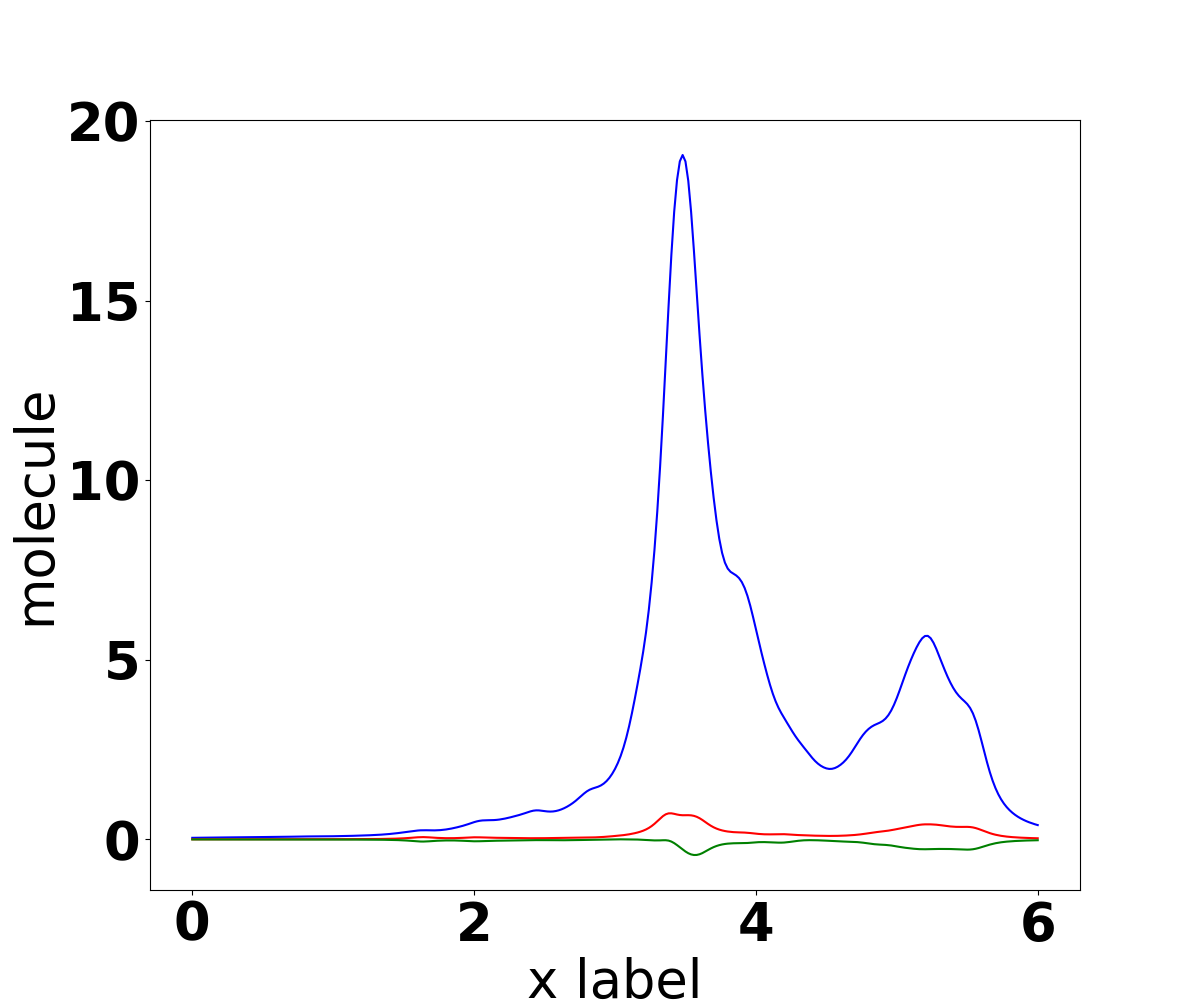
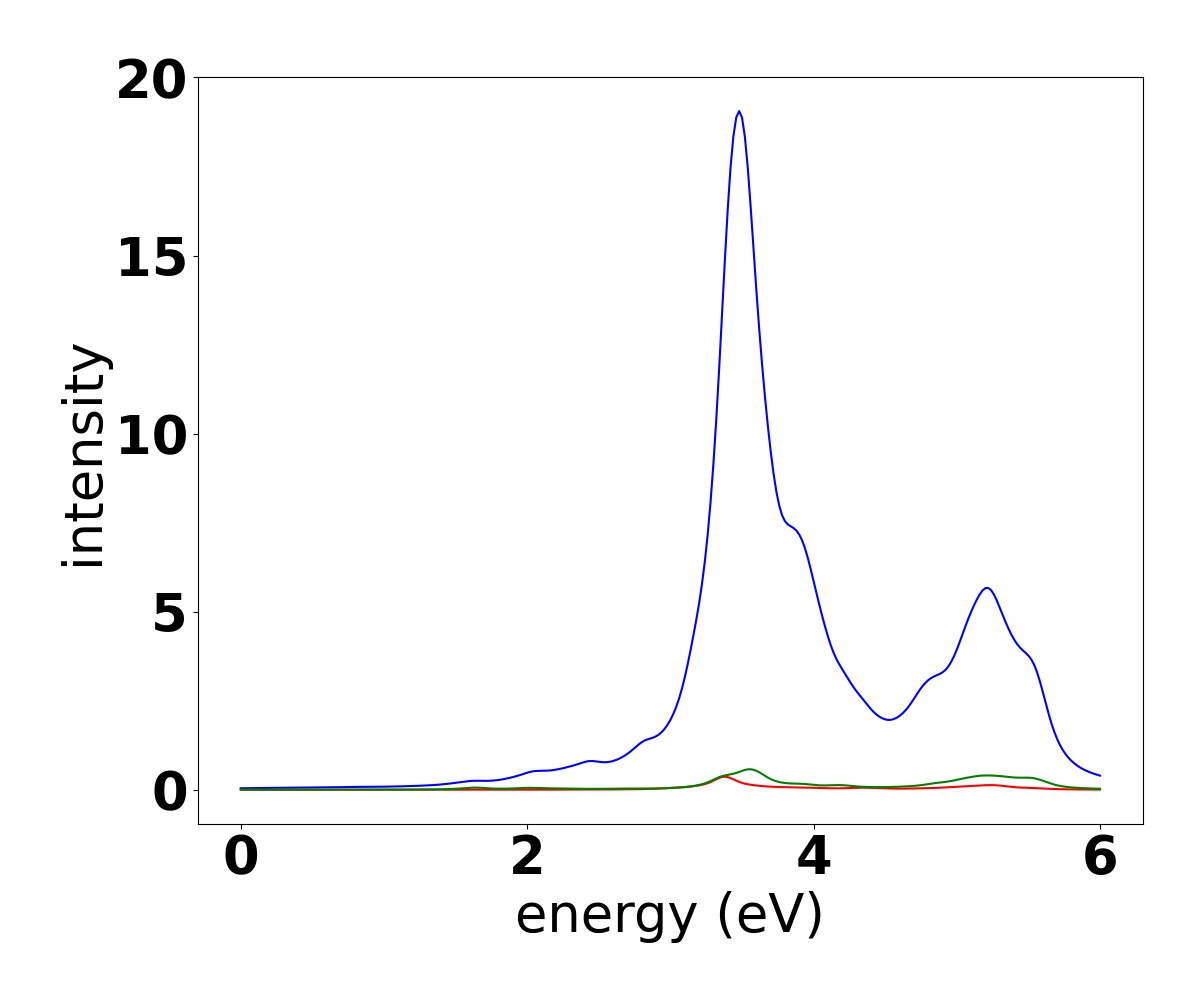
separated charge transfer contributions from metal cluster and molecule by classifying each transition

diff --git a/test.tex b/test.tex
@@ -27,19 +27,10 @@
    \hline
    \endfoot
    \endlastfoot 
-40 &	 1.64 &	 0.02 &	 0.95 \\ 
-  	& 841a(1.00)$\rightarrow$851a(0.00) &	 0.8028 &	 0.79, 0.21, 0.00 $\rightarrow$ 0.00, 1.00, 0.00 \\ 
- 	& 842a(1.00)$\rightarrow$851a(0.00) &	 0.1250 &	 0.76, 0.24, 0.00 $\rightarrow$ 0.00, 1.00, 0.00 \\ 
- 	& 840a(1.00)$\rightarrow$850a(1.00) &	 0.0287 &	 0.92, 0.08, 0.00 $\rightarrow$ 0.47, 0.53, 0.00 \\ 
- 	& 843a(1.00)$\rightarrow$851a(0.00) &	 0.0222 &	 0.80, 0.20, 0.00 $\rightarrow$ 0.00, 1.00, 0.00 \\ 
- \hline180 &	 3.35 &	 0.07 &	 0.75 \\ 
-  	& 836a(0.93)$\rightarrow$851a(0.00) &	 0.8060 &	 0.66, 0.31, 0.02 $\rightarrow$ 0.00, 1.00, 0.00 \\ 
- 	& 827a(1.00)$\rightarrow$844a(1.00) &	 0.0833 &	 0.00, 0.00, 1.00 $\rightarrow$ 0.70, 0.30, 0.00 \\ 
- 	& 828a(1.00)$\rightarrow$845a(1.00) &	 0.0411 &	 0.00, 0.00, 1.00 $\rightarrow$ 0.69, 0.31, 0.00 \\ 
- \hline181 &	 3.36 &	 0.01 &	 -0.89 \\ 
+181 &	 3.36 &	 0.01 &	 0.90 \\ 
   	& 829a(0.00)$\rightarrow$846a(0.98) &	 0.8632 &	 0.00, 1.00, 0.00 $\rightarrow$ 0.63, 0.37, 0.00 \\ 
  	& 830a(0.52)$\rightarrow$846a(0.98) &	 0.1139 &	 0.09, 0.45, 0.46 $\rightarrow$ 0.63, 0.37, 0.00 \\ 
- \hline186 &	 3.38 &	 0.38 &	 -0.24 \\ 
+ \hline186 &	 3.38 &	 0.38 &	 0.25 \\ 
   	& 830a(0.52)$\rightarrow$846a(0.98) &	 0.4082 &	 0.09, 0.45, 0.46 $\rightarrow$ 0.63, 0.37, 0.00 \\ 
  	& 826a(1.00)$\rightarrow$844a(1.00) &	 0.1201 &	 0.00, 0.00, 1.00 $\rightarrow$ 0.70, 0.30, 0.00 \\ 
  	& 825a(1.00)$\rightarrow$844a(1.00) &	 0.0744 &	 0.00, 0.00, 1.00 $\rightarrow$ 0.70, 0.30, 0.00 \\ 
@@ -49,92 +40,6 @@
  	& 835a(1.00)$\rightarrow$848a(0.96) &	 0.0299 &	 0.80, 0.18, 0.02 $\rightarrow$ 0.40, 0.60, 0.00 \\ 
  	& 836a(0.93)$\rightarrow$846a(0.98) &	 0.0142 &	 0.66, 0.31, 0.02 $\rightarrow$ 0.63, 0.37, 0.00 \\ 
  	& 823a(1.00)$\rightarrow$844a(1.00) &	 0.0133 &	 0.00, 0.00, 1.00 $\rightarrow$ 0.70, 0.30, 0.00 \\ 
- \hline219 &	 3.49 &	 0.68 &	 0.02 \\ 
-  	& 822a(1.00)$\rightarrow$844a(1.00) &	 0.1210 &	 0.00, 0.00, 1.00 $\rightarrow$ 0.70, 0.30, 0.00 \\ 
- 	& 820a(1.00)$\rightarrow$844a(1.00) &	 0.1065 &	 0.00, 0.00, 1.00 $\rightarrow$ 0.70, 0.30, 0.00 \\ 
- 	& 832a(1.00)$\rightarrow$850a(1.00) &	 0.0993 &	 0.94, 0.06, 0.00 $\rightarrow$ 0.47, 0.53, 0.00 \\ 
- 	& 832a(1.00)$\rightarrow$847a(1.00) &	 0.0721 &	 0.94, 0.06, 0.00 $\rightarrow$ 0.49, 0.51, 0.00 \\ 
- 	& 817a(1.00)$\rightarrow$844a(1.00) &	 0.0644 &	 0.00, 0.00, 1.00 $\rightarrow$ 0.70, 0.30, 0.00 \\ 
- 	& 838a(1.00)$\rightarrow$864a(1.00) &	 0.0373 &	 0.75, 0.25, 0.00 $\rightarrow$ 0.37, 0.63, 0.00 \\ 
- 	& 837a(1.00)$\rightarrow$847a(1.00) &	 0.0251 &	 0.78, 0.22, 0.00 $\rightarrow$ 0.49, 0.51, 0.00 \\ 
- 	& 834a(1.00)$\rightarrow$849a(1.00) &	 0.0246 &	 0.81, 0.19, 0.00 $\rightarrow$ 0.42, 0.58, 0.00 \\ 
- 	& 835a(1.00)$\rightarrow$848a(0.96) &	 0.0221 &	 0.80, 0.18, 0.02 $\rightarrow$ 0.40, 0.60, 0.00 \\ 
- 	& 836a(0.93)$\rightarrow$851a(0.00) &	 0.0157 &	 0.66, 0.31, 0.02 $\rightarrow$ 0.00, 1.00, 0.00 \\ 
- 	& 824a(1.00)$\rightarrow$845a(1.00) &	 0.0150 &	 0.09, 0.00, 0.91 $\rightarrow$ 0.69, 0.31, 0.00 \\ 
- 	& 843a(1.00)$\rightarrow$869a(1.00) &	 0.0147 &	 0.80, 0.20, 0.00 $\rightarrow$ 0.02, 0.98, 0.00 \\ 
- 	& 821a(1.00)$\rightarrow$846a(0.98) &	 0.0136 &	 0.00, 0.00, 1.00 $\rightarrow$ 0.63, 0.37, 0.00 \\ 
- 	& 816a(1.00)$\rightarrow$844a(1.00) &	 0.0133 &	 0.09, 0.00, 0.91 $\rightarrow$ 0.70, 0.30, 0.00 \\ 
- 	& 835a(1.00)$\rightarrow$844a(1.00) &	 0.0116 &	 0.80, 0.18, 0.02 $\rightarrow$ 0.70, 0.30, 0.00 \\ 
- 	& 840a(1.00)$\rightarrow$867a(1.00) &	 0.0110 &	 0.92, 0.08, 0.00 $\rightarrow$ 0.39, 0.61, 0.00 \\ 
- 	& 838a(1.00)$\rightarrow$849a(1.00) &	 0.0110 &	 0.75, 0.25, 0.00 $\rightarrow$ 0.42, 0.58, 0.00 \\ 
- 	& 842a(1.00)$\rightarrow$855a(1.00) &	 0.0108 &	 0.76, 0.24, 0.00 $\rightarrow$ 0.70, 0.30, 0.00 \\ 
- 	& 841a(1.00)$\rightarrow$863a(1.00) &	 0.0101 &	 0.79, 0.21, 0.00 $\rightarrow$ 0.71, 0.29, 0.00 \\ 
- \hline231 &	 3.53 &	 0.08 &	 0.53 \\ 
-  	& 835a(1.00)$\rightarrow$851a(0.00) &	 0.5322 &	 0.80, 0.18, 0.02 $\rightarrow$ 0.00, 1.00, 0.00 \\ 
- 	& 819a(1.00)$\rightarrow$844a(1.00) &	 0.0894 &	 0.34, 0.00, 0.66 $\rightarrow$ 0.70, 0.30, 0.00 \\ 
- 	& 819a(1.00)$\rightarrow$845a(1.00) &	 0.0463 &	 0.34, 0.00, 0.66 $\rightarrow$ 0.69, 0.31, 0.00 \\ 
- 	& 817a(1.00)$\rightarrow$844a(1.00) &	 0.0357 &	 0.00, 0.00, 1.00 $\rightarrow$ 0.70, 0.30, 0.00 \\ 
- 	& 839a(1.00)$\rightarrow$866a(1.00) &	 0.0333 &	 0.82, 0.18, 0.00 $\rightarrow$ 0.28, 0.72, 0.00 \\ 
- 	& 833a(1.00)$\rightarrow$850a(1.00) &	 0.0237 &	 0.95, 0.05, 0.00 $\rightarrow$ 0.47, 0.53, 0.00 \\ 
- 	& 838a(1.00)$\rightarrow$864a(1.00) &	 0.0206 &	 0.75, 0.25, 0.00 $\rightarrow$ 0.37, 0.63, 0.00 \\ 
- 	& 818a(1.00)$\rightarrow$844a(1.00) &	 0.0179 &	 0.00, 0.00, 1.00 $\rightarrow$ 0.70, 0.30, 0.00 \\ 
- 	& 841a(1.00)$\rightarrow$869a(1.00) &	 0.0163 &	 0.79, 0.21, 0.00 $\rightarrow$ 0.02, 0.98, 0.00 \\ 
- 	& 842a(1.00)$\rightarrow$868a(1.00) &	 0.0144 &	 0.76, 0.24, 0.00 $\rightarrow$ 0.04, 0.96, 0.00 \\ 
- 	& 837a(1.00)$\rightarrow$866a(1.00) &	 0.0125 &	 0.78, 0.22, 0.00 $\rightarrow$ 0.28, 0.72, 0.00 \\ 
- 	& 843a(1.00)$\rightarrow$870a(1.00) &	 0.0102 &	 0.80, 0.20, 0.00 $\rightarrow$ 0.04, 0.96, 0.00 \\ 
- \hline236 &	 3.54 &	 0.13 &	 0.14 \\ 
-  	& 841a(1.00)$\rightarrow$869a(1.00) &	 0.1378 &	 0.79, 0.21, 0.00 $\rightarrow$ 0.02, 0.98, 0.00 \\ 
- 	& 835a(1.00)$\rightarrow$851a(0.00) &	 0.1375 &	 0.80, 0.18, 0.02 $\rightarrow$ 0.00, 1.00, 0.00 \\ 
- 	& 838a(1.00)$\rightarrow$865a(1.00) &	 0.1071 &	 0.75, 0.25, 0.00 $\rightarrow$ 0.36, 0.64, 0.00 \\ 
- 	& 842a(1.00)$\rightarrow$868a(1.00) &	 0.0762 &	 0.76, 0.24, 0.00 $\rightarrow$ 0.04, 0.96, 0.00 \\ 
- 	& 817a(1.00)$\rightarrow$845a(1.00) &	 0.0629 &	 0.00, 0.00, 1.00 $\rightarrow$ 0.69, 0.31, 0.00 \\ 
- 	& 833a(1.00)$\rightarrow$850a(1.00) &	 0.0530 &	 0.95, 0.05, 0.00 $\rightarrow$ 0.47, 0.53, 0.00 \\ 
- 	& 814a(0.98)$\rightarrow$844a(1.00) &	 0.0431 &	 0.00, 0.02, 0.98 $\rightarrow$ 0.70, 0.30, 0.00 \\ 
- 	& 839a(1.00)$\rightarrow$866a(1.00) &	 0.0413 &	 0.82, 0.18, 0.00 $\rightarrow$ 0.28, 0.72, 0.00 \\ 
- 	& 815a(1.00)$\rightarrow$845a(1.00) &	 0.0376 &	 0.00, 0.00, 1.00 $\rightarrow$ 0.69, 0.31, 0.00 \\ 
- 	& 816a(1.00)$\rightarrow$845a(1.00) &	 0.0294 &	 0.09, 0.00, 0.91 $\rightarrow$ 0.69, 0.31, 0.00 \\ 
- 	& 843a(1.00)$\rightarrow$870a(1.00) &	 0.0269 &	 0.80, 0.20, 0.00 $\rightarrow$ 0.04, 0.96, 0.00 \\ 
- 	& 841a(1.00)$\rightarrow$868a(1.00) &	 0.0249 &	 0.79, 0.21, 0.00 $\rightarrow$ 0.04, 0.96, 0.00 \\ 
- 	& 834a(1.00)$\rightarrow$848a(0.96) &	 0.0105 &	 0.81, 0.19, 0.00 $\rightarrow$ 0.40, 0.60, 0.00 \\ 
- \hline247 &	 3.59 &	 0.04 &	 0.44 \\ 
-  	& 834a(1.00)$\rightarrow$851a(0.00) &	 0.4376 &	 0.81, 0.19, 0.00 $\rightarrow$ 0.00, 1.00, 0.00 \\ 
- 	& 814a(0.98)$\rightarrow$845a(1.00) &	 0.2156 &	 0.00, 0.02, 0.98 $\rightarrow$ 0.69, 0.31, 0.00 \\ 
- 	& 828a(1.00)$\rightarrow$846a(0.98) &	 0.0731 &	 0.00, 0.00, 1.00 $\rightarrow$ 0.63, 0.37, 0.00 \\ 
- 	& 815a(1.00)$\rightarrow$845a(1.00) &	 0.0703 &	 0.00, 0.00, 1.00 $\rightarrow$ 0.69, 0.31, 0.00 \\ 
- 	& 836a(0.93)$\rightarrow$852a(1.00) &	 0.0222 &	 0.66, 0.31, 0.02 $\rightarrow$ 0.68, 0.32, 0.00 \\ 
- 	& 840a(1.00)$\rightarrow$868a(1.00) &	 0.0183 &	 0.92, 0.08, 0.00 $\rightarrow$ 0.04, 0.96, 0.00 \\ 
- 	& 837a(1.00)$\rightarrow$866a(1.00) &	 0.0155 &	 0.78, 0.22, 0.00 $\rightarrow$ 0.28, 0.72, 0.00 \\ 
- 	& 817a(1.00)$\rightarrow$845a(1.00) &	 0.0114 &	 0.00, 0.00, 1.00 $\rightarrow$ 0.69, 0.31, 0.00 \\ 
- \hline248 &	 3.59 &	 0.11 &	 0.20 \\ 
-  	& 815a(1.00)$\rightarrow$845a(1.00) &	 0.2035 &	 0.00, 0.00, 1.00 $\rightarrow$ 0.69, 0.31, 0.00 \\ 
- 	& 828a(1.00)$\rightarrow$846a(0.98) &	 0.1784 &	 0.00, 0.00, 1.00 $\rightarrow$ 0.63, 0.37, 0.00 \\ 
- 	& 834a(1.00)$\rightarrow$851a(0.00) &	 0.1757 &	 0.81, 0.19, 0.00 $\rightarrow$ 0.00, 1.00, 0.00 \\ 
- 	& 814a(0.98)$\rightarrow$845a(1.00) &	 0.0672 &	 0.00, 0.02, 0.98 $\rightarrow$ 0.69, 0.31, 0.00 \\ 
- 	& 817a(1.00)$\rightarrow$845a(1.00) &	 0.0387 &	 0.00, 0.00, 1.00 $\rightarrow$ 0.69, 0.31, 0.00 \\ 
- 	& 836a(0.93)$\rightarrow$853a(1.00) &	 0.0269 &	 0.66, 0.31, 0.02 $\rightarrow$ 0.68, 0.32, 0.00 \\ 
- 	& 833a(1.00)$\rightarrow$851a(0.00) &	 0.0268 &	 0.95, 0.05, 0.00 $\rightarrow$ 0.00, 1.00, 0.00 \\ 
- 	& 837a(1.00)$\rightarrow$864a(1.00) &	 0.0253 &	 0.78, 0.22, 0.00 $\rightarrow$ 0.37, 0.63, 0.00 \\ 
- 	& 836a(0.93)$\rightarrow$852a(1.00) &	 0.0226 &	 0.66, 0.31, 0.02 $\rightarrow$ 0.68, 0.32, 0.00 \\ 
- 	& 810a(0.88)$\rightarrow$845a(1.00) &	 0.0208 &	 0.00, 0.12, 0.88 $\rightarrow$ 0.69, 0.31, 0.00 \\ 
- 	& 843a(1.00)$\rightarrow$870a(1.00) &	 0.0166 &	 0.80, 0.20, 0.00 $\rightarrow$ 0.04, 0.96, 0.00 \\ 
- 	& 840a(1.00)$\rightarrow$868a(1.00) &	 0.0117 &	 0.92, 0.08, 0.00 $\rightarrow$ 0.04, 0.96, 0.00 \\ 
- 	& 812a(1.00)$\rightarrow$844a(1.00) &	 0.0102 &	 0.00, 0.00, 1.00 $\rightarrow$ 0.70, 0.30, 0.00 \\ 
- \hline253 &	 3.60 &	 0.20 &	 0.10 \\ 
-  	& 831a(1.00)$\rightarrow$847a(1.00) &	 0.1713 &	 0.96, 0.04, 0.00 $\rightarrow$ 0.49, 0.51, 0.00 \\ 
- 	& 812a(1.00)$\rightarrow$844a(1.00) &	 0.1636 &	 0.00, 0.00, 1.00 $\rightarrow$ 0.70, 0.30, 0.00 \\ 
- 	& 840a(1.00)$\rightarrow$869a(1.00) &	 0.1502 &	 0.92, 0.08, 0.00 $\rightarrow$ 0.02, 0.98, 0.00 \\ 
- 	& 833a(1.00)$\rightarrow$851a(0.00) &	 0.0920 &	 0.95, 0.05, 0.00 $\rightarrow$ 0.00, 1.00, 0.00 \\ 
- 	& 839a(1.00)$\rightarrow$865a(1.00) &	 0.0449 &	 0.82, 0.18, 0.00 $\rightarrow$ 0.36, 0.64, 0.00 \\ 
- 	& 816a(1.00)$\rightarrow$845a(1.00) &	 0.0370 &	 0.09, 0.00, 0.91 $\rightarrow$ 0.69, 0.31, 0.00 \\ 
- 	& 837a(1.00)$\rightarrow$864a(1.00) &	 0.0198 &	 0.78, 0.22, 0.00 $\rightarrow$ 0.37, 0.63, 0.00 \\ 
- 	& 843a(1.00)$\rightarrow$870a(1.00) &	 0.0194 &	 0.80, 0.20, 0.00 $\rightarrow$ 0.04, 0.96, 0.00 \\ 
- 	& 842a(1.00)$\rightarrow$869a(1.00) &	 0.0189 &	 0.76, 0.24, 0.00 $\rightarrow$ 0.02, 0.98, 0.00 \\ 
- 	& 838a(1.00)$\rightarrow$866a(1.00) &	 0.0185 &	 0.75, 0.25, 0.00 $\rightarrow$ 0.28, 0.72, 0.00 \\ 
- 	& 841a(1.00)$\rightarrow$868a(1.00) &	 0.0136 &	 0.79, 0.21, 0.00 $\rightarrow$ 0.04, 0.96, 0.00 \\ 
- 	& 817a(1.00)$\rightarrow$845a(1.00) &	 0.0121 &	 0.00, 0.00, 1.00 $\rightarrow$ 0.69, 0.31, 0.00 \\ 
- 	& 832a(1.00)$\rightarrow$851a(0.00) &	 0.0117 &	 0.94, 0.06, 0.00 $\rightarrow$ 0.00, 1.00, 0.00 \\ 
- 	& 810a(0.88)$\rightarrow$845a(1.00) &	 0.0113 &	 0.00, 0.12, 0.88 $\rightarrow$ 0.69, 0.31, 0.00 \\ 
- 	& 841a(1.00)$\rightarrow$869a(1.00) &	 0.0106 &	 0.79, 0.21, 0.00 $\rightarrow$ 0.02, 0.98, 0.00 \\ 
  \hline %\hline \end{tabular} 
  \end{longtable} 
  \end{document} 

diff --git a/ct_analysis.py b/ct_analysis.py
@@ -49,6 +49,7 @@ class Molecule:
             intensity.append(0.0)
             intensity2.append(0.0)
             intensity3.append(0.0)
+        
 
         #CT_Excited_State={} #{Symm: {Exc_num: CT_char}}
         #Excited_States= {} # {Symm:{exc_num: [energy,
@@ -62,20 +63,21 @@ class Molecule:
                     intensity3[i] += phi * float(self.CT_Excited_State[symmetry][exc_num][1]) * float(self.Excited_States[symmetry][exc_num][1]) * 2
                 if "A" in symmetry or "S" in sym[en] or "B" in sym[en]:
                     intensity[i] += phi * float(self.Excited_States[symmetry][exc_num][1]) * 1     
-                    intensity2[i] += phi * abs(float(self.CT_Excited_State[symmetry][exc_num][0])) * float(self.Excited_States[symmetry][exc_num][1]) * 1
-                    intensity3[i] += phi * float(self.CT_Excited_State[symmetry][exc_num][1]) * float(self.Excited_States[symmetry][exc_num][1]) * 1
+                    intensity2[i] += phi * (float(self.CT_Excited_State[symmetry][exc_num][0])) * float(self.Excited_States[symmetry][exc_num][1]) * 1
+                    intensity3[i] += phi * (float(self.CT_Excited_State[symmetry][exc_num][1])) * float(self.Excited_States[symmetry][exc_num][1]) * 1
         #print(f"intensity {intensity}")
         fig = plt.figure(figsize=(12,10))
         plt.rcParams.update({'font.size': 38, 'font.weight':'bold'})
         ax = fig.add_subplot(111)
         #ax2 = ax.twinx()
         ax.plot(en_ax, intensity,'-b')
-        ax.set_xlabel("x label")
+        ax.set_xlabel("energy (eV)")
         ax.set_ylabel("total")
         ax.plot(en_ax, intensity2,'-r')
         ax.set_ylabel("metal")
         ax.plot(en_ax, intensity3,'-g')
-        ax.set_ylabel("molecule")
+        ax.set_ylabel("intensity")
+        plt.tight_layout()
         plt.savefig(f"{plot_name}.png")
 
 
@@ -198,15 +200,19 @@ class Molecule:
                 try:
                     vir_norm = [float(i)/sum(self.Orbital_Localized_Character[vir_orb]) for i in self.Orbital_Localized_Character[vir_orb]]
                     self.Orbital_Localized_Character_Norm[vir_orb]=vir_norm
-                    print(f"virtual_norm {vir_norm}")
+                    #print(f"virtual_norm {vir_norm}")
                 except:
                     #print(f"orbital {vir_orb} is not in your list of orbitals") 
                     pass
                     #vir_norm=[0,0]
                 #print(f"occ_norm {occ_norm} vir_norm {vir_norm}")
-                metal_ct += (occ_norm[0] - vir_norm[0]) * weight
-                mol_ct += (occ_norm[1] - vir_norm[1]) * weight
+                if vir_norm[0] - occ_norm[0] > 0 :
+                    metal_ct += (vir_norm[0] - occ_norm[0]) * weight
+                else:
+                    mol_ct += (vir_norm[1] - occ_norm[1]) * weight
+                #print(f"{metal_ct} { mol_ct}  inloop")
             try:
+                #print(f"{metal_ct} {mol_ct} outloop")
                 occ_vir_diff=[metal_ct, mol_ct] #occ_vir_diff = [part metal , part molecule]
                 #print(f"ct {state} : {occ_vir_diff}") 
                 #print(f"ct*osc_str : {occ_vir_diff[0]*float(self.Excited_States[symm][state][1])} ")                 
